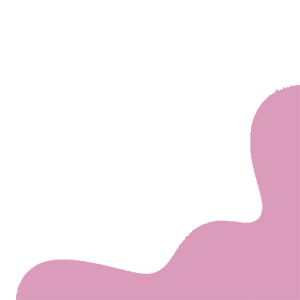
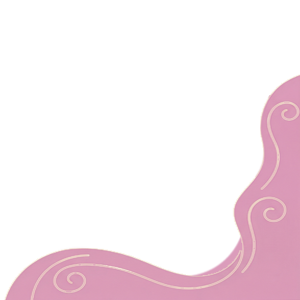
sth changed

diff --git a/src/components/Footer.tsx b/src/components/Footer.tsx
@@ -3,14 +3,14 @@ import Image from "next/image";
 import footerImg from "../../public/images/footerImg.png";
 
 const FooterStyle = {
-  width: "400px",
-  height: "200px",
+  width: "300px",
+  height: "300px",
 };
 
 const Footer = () => {
   return (
     <div>
-      <div className="flex flex-col items-center gap-2 -mb-24 mt-6">
+      <div className="flex flex-col items-center gap-2 -mb-40 mt-6">
         <div className="flex gap-1 items-center">
           <span className="text-sm text-white bg-amber-950/80 rounded-r-lg p-2">
             thaice.vercel.app
@@ -28,6 +28,11 @@ const Footer = () => {
           alt="footer"
           className=""
         />
+      </div>
+      <div className="relative">
+        <div className="absolute w-6 h-6 rounded-full bg-red-900/70 left-3 bottom-10"></div>
+        <div className="absolute w-4 h-4 rounded-full bg-red-900/70 left-5 bottom-18"></div>
+        <div className="absolute w-2 h-2 rounded-full bg-red-900/70 left-12 bottom-8"></div>
       </div>
     </div>
   );

diff --git a/src/components/Header.tsx b/src/components/Header.tsx
@@ -3,8 +3,8 @@ import Image from "next/image";
 
 
 const HeaderStyle = {
-  width: "200px",
-  height: "200px",
+  width: "380px",
+  height: "260px",
 };
 
 const Header = () => {
@@ -15,11 +15,11 @@ const Header = () => {
         <div className="absolute w-4 h-4 rounded-full bg-amber-900/70 right-8 bottom-12"></div>
         <div className="absolute w-2 h-2 rounded-full bg-amber-900/70 right-6 bottom-0"></div>
       </div>
-      <div className="relative top-20 left-20">
-        <span className="absolute bottom-16 right-11 w-64 text-4xl text-amber-950 font-bold">
+      <div className="relative top-16 left-20">
+        <span className="absolute bottom-16 right-32 w-64 text-4xl text-amber-950 font-bold">
           بستنی تایسی رول
         </span>
-        <span className="absolute bottom-7 right-13 w-30 text-xl text-pink-400">
+        <span className="absolute bottom-7 right-34 w-30 text-xl text-pink-400">
           بستنی رولی
         </span>
       </div>

diff --git a/src/components/home/Menu.tsx b/src/components/home/Menu.tsx
@@ -26,11 +26,11 @@ const MainMenuitems = [
     twoRoolPrice: 120,
     threeRoolPrice: 150,
   },{
-    name: "نوتلا + موز + لوکوم",
+    name: "نوتلا + موز + لوتوس",
     twoRoolPrice: 120,
     threeRoolPrice: 150,
   },{
-    name: "اورئو + کره بادام زمنی + موز",
+    name: "اورئو + کره بادام زمینی + موز",
     twoRoolPrice: 120,
     threeRoolPrice: 150,
   },{
@@ -67,7 +67,7 @@ const Supriseitems = [
 
 const Menu = () => {
   return (
-    <div className="flex flex-col container gap-10">
+    <div className="flex flex-col container gap-10 -mt-6">
       <div className="px-4">
         <MainMenu items={MainMenuitems} menuTitle={"منو ترکیبی"}/>
       </div>

diff --git a/src/components/MainMenu.tsx b/src/components/MainMenu.tsx
@@ -12,7 +12,7 @@ items: {
 
 const MainMenu = ({menuTitle , items} : MainMenuProp) => {
   return (
-    <div className="rounded-xl border border-gray-700">
+    <div className="rounded-xl border border-gray-700 shadow-md">
       <div className="relative">
       <div className="absolute text-2xl font-bold text-pink-700 bg-[url('/images/background.jpg')] p-2 px-2 -top-7 left-1/2 -translate-x-1/2 ">
        {menuTitle}
@@ -26,7 +26,7 @@ const MainMenu = ({menuTitle , items} : MainMenuProp) => {
       {items.map((items, index)=>{
         return(
         <div key={index} className="flex items-center justify-between">
-          <span>{items.name}</span>
+          <span className="text-lg">{items.name}</span>
           <div className={`${iranSans.className} flex items-center justify-center gap-2 `}>
             <span className="bg-pink-100 border border-pink-500 px-1 text-gray-600 rounded-md">{items.twoRoolPrice}</span>
             <span className="bg-pink-100 border border-pink-500 px-1 text-gray-600 rounded-md">{items.threeRoolPrice}</span>

diff --git a/src/components/SurpriseMenu.tsx b/src/components/SurpriseMenu.tsx
@@ -11,7 +11,7 @@ interface SupriseMenuProp {
 
 const SurpriseMenu = ({ menuTitle, items }: SupriseMenuProp) => {
   return (
-    <div className="rounded-xl border border-gray-700">
+    <div className="rounded-xl border border-gray-700 shadow-md">
       <div className="relative">
         <div className="absolute text-2xl font-bold text-pink-700 bg-[url('/images/background.jpg')] p-2 px-2 -top-7 left-1/2 -translate-x-1/2 ">
           {menuTitle}